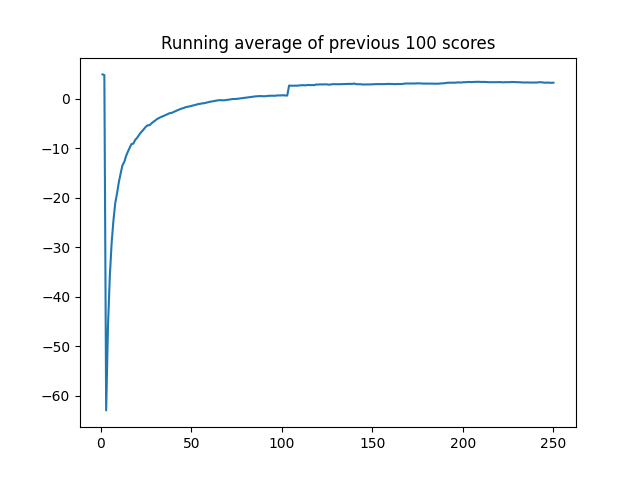
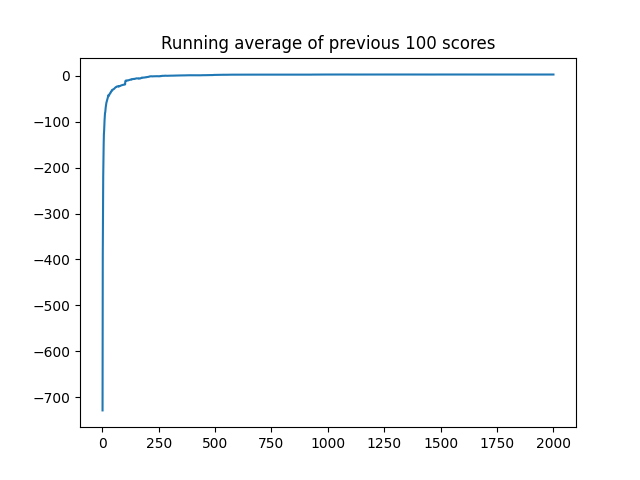
Optimizations

diff --git a/philtabor Youtube-Code-Repository master ReinforcementLearning-PolicyGradient_SAC/Motor.py b/philtabor Youtube-Code-Repository master ReinforcementLearning-PolicyGradient_SAC/Motor.py
@@ -49,7 +49,7 @@ class Motor(gym.Env):
         state=np.array([0,0], dtype=float)
         action=abs(action)
         state[0] = action[0]
-        reward=-1*abs((target-action))
+        reward=-2-1*abs((target-action))
         state[1]=target
         #print(state)
         #print(reward)
@@ -63,7 +63,9 @@ class Motor(gym.Env):
         #print(reward)
         # regardless of the action, game is done after a single step
 
+        #print(action)
         if state[0]>=target-0.05 and state[0]<=target+0.05 :
+            print(self.steps_taken)
             reward=5
             done = True
         else:

diff --git a/philtabor Youtube-Code-Repository master ReinforcementLearning-PolicyGradient_SAC/main_sac.py b/philtabor Youtube-Code-Repository master ReinforcementLearning-PolicyGradient_SAC/main_sac.py
@@ -15,7 +15,7 @@ if __name__ == '__main__':
     #raise Exception
     agent = Agent(input_dims=env.observation_space.shape, env=env,
             n_actions=env.action_space.shape[0])
-    n_games = 250
+    n_games = 1000
     # uncomment this line and do a mkdir tmp && mkdir video if you want to
     # record video of the agent playing the game.
     #env = wrappers.Monitor(env, 'tmp/video', video_callable=lambda episode_id: True, force=True)

diff --git a/philtabor Youtube-Code-Repository master ReinforcementLearning-PolicyGradient_SAC/sac_torch.py b/philtabor Youtube-Code-Repository master ReinforcementLearning-PolicyGradient_SAC/sac_torch.py
@@ -6,7 +6,7 @@ from buffer import ReplayBuffer
 from networks import ActorNetwork, CriticNetwork, ValueNetwork
 
 class Agent():
-    def __init__(self, alpha=0.0003, beta=0.0003, input_dims=[8],
+    def __init__(self, alpha=0.01, beta=0.0003, input_dims=[8],
             env=None, gamma=0.99, n_actions=2, max_size=1000000, tau=0.005,
             layer1_size=256, layer2_size=256, batch_size=256, reward_scale=2):
         self.gamma = gamma
